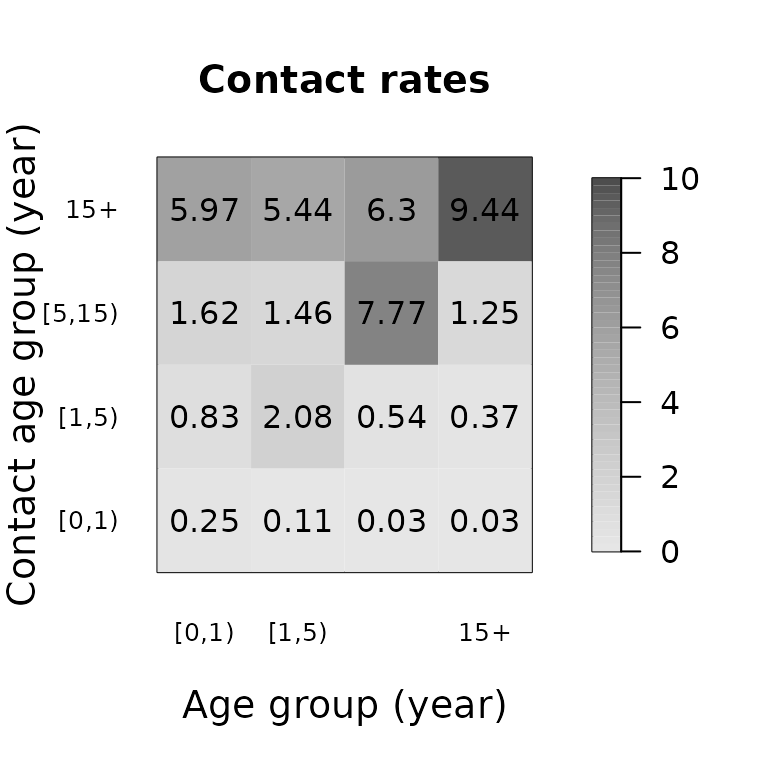
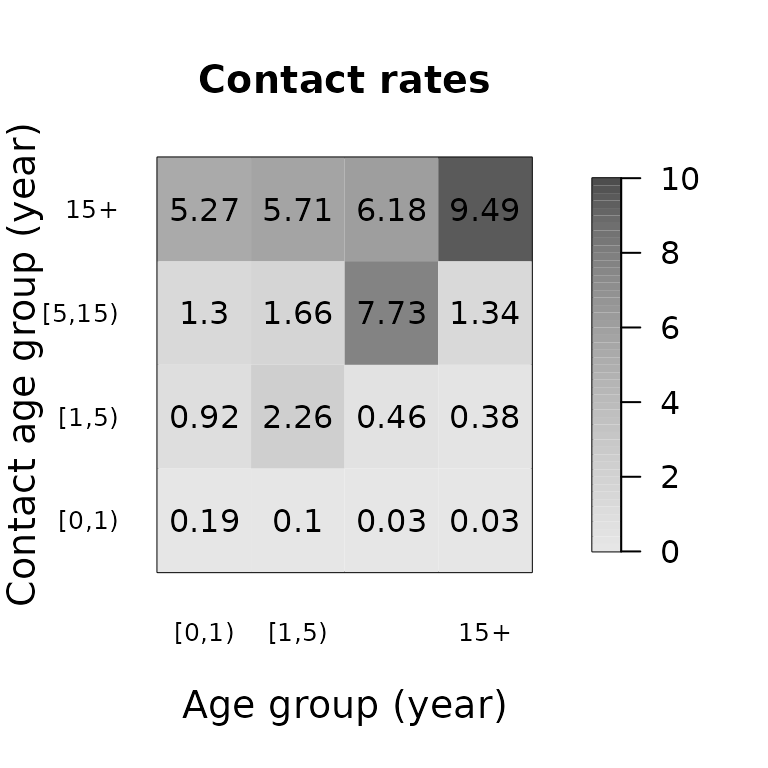
Deploying to gh-pages from @ epiforecasts/socialmixr@2dcbc61d1a1cb62e6b64384dd7c45c179c60a6af 🚀

diff --git a/news/index.html b/news/index.html
@@ -61,8 +61,9 @@
 <a href="https://en.wikipedia.org/wiki/Cyclomatic_complexity" class="external-link">Cyclomatic complexity</a> of <code><a href="../reference/download_survey.html">download_survey()</a></code> has been reduced by externalising the <code>find_common_prefix()</code> function and failing early instead of relying on unnecessary if/else sequences</li>
 <li>More generous filename checks now pass files named e.g. “…_participants_common…” an not only “…participant_common…”</li>
 <li>The package now sets a custom user agent when downloading survey data (<a href="https://github.com/epiforecasts/socialmixr/issues/82" class="external-link">#82</a>).</li>
-<li>A problem was fixed where attempted joins of files could lead to blowing up memeory use (<a href="https://github.com/epiforecasts/socialmixr/issues/75" class="external-link">#75</a>).</li>
+<li>A problem was fixed where attempted joins of files could lead to blowing up memory use (<a href="https://github.com/epiforecasts/socialmixr/issues/75" class="external-link">#75</a>).</li>
 <li>A problem was fixed where the updated Zenodo API caused downloading to fail (<a href="https://github.com/epiforecasts/socialmixr/issues/91" class="external-link">#91</a>).</li>
+<li>A problem was fixed where the updated Zenodo API caused listing surveys to fail (<a href="https://github.com/epiforecasts/socialmixr/issues/96" class="external-link">#96</a>).</li>
 </ul></div>
 </div>
     <div class="section level2">

diff --git a/articles/socialmixr.html b/articles/socialmixr.html
@@ -225,10 +225,10 @@ be obtained, for example the mean:</p>
 <span><span class="va">mr</span></span>
 <span><span class="co">#&gt;          contact.age.group</span></span>
 <span><span class="co">#&gt; age.group      [0,1)     [1,5)   [5,15)      15+</span></span>
-<span><span class="co">#&gt;    [0,1)  0.25192308 0.8255495 1.616557 5.965366</span></span>
-<span><span class="co">#&gt;    [1,5)  0.10603625 2.0827459 1.460235 5.439678</span></span>
-<span><span class="co">#&gt;    [5,15) 0.02817356 0.5396443 7.767910 6.299928</span></span>
-<span><span class="co">#&gt;    15+    0.03247321 0.3698701 1.250496 9.443436</span></span></code></pre></div>
+<span><span class="co">#&gt;    [0,1)  0.18519936 0.9168558 1.301909 5.266607</span></span>
+<span><span class="co">#&gt;    [1,5)  0.10070093 2.2597170 1.655744 5.713813</span></span>
+<span><span class="co">#&gt;    [5,15) 0.02954522 0.4610367 7.725649 6.183735</span></span>
+<span><span class="co">#&gt;    15+    0.03135489 0.3816264 1.343639 9.492150</span></span></code></pre></div>
 </div>
 <div class="section level2">
 <h2 id="demography">Demography<a class="anchor" aria-label="anchor" href="#demography"></a>
